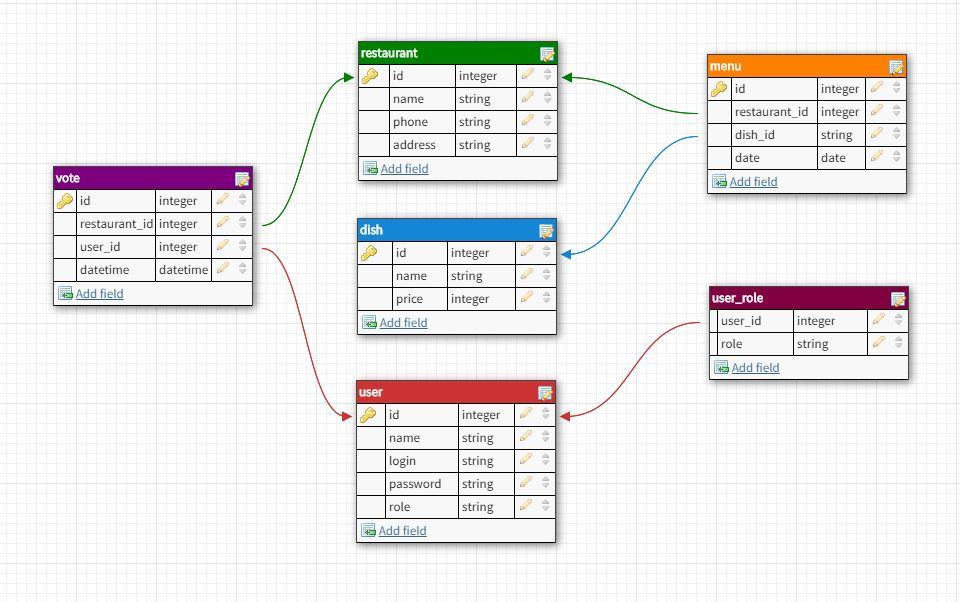
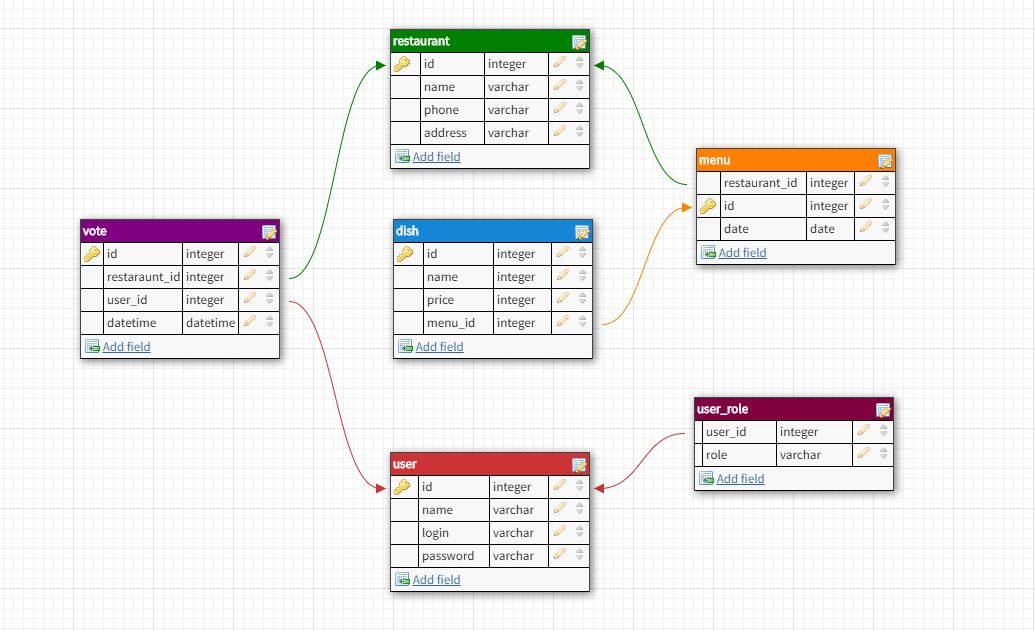
change db jpeg structure and add population.sql

diff --git a/src/main/java/ru/regorov/rrvs/configuration/AppConfig.java b/src/main/java/ru/regorov/rrvs/configuration/AppConfig.java
@@ -1,0 +1,23 @@
+package ru.regorov.rrvs.configuration;
+
+import org.springframework.context.annotation.Bean;
+import org.springframework.context.annotation.Configuration;
+import org.springframework.jdbc.datasource.embedded.EmbeddedDatabaseBuilder;
+
+import javax.sql.DataSource;
+
+import static org.springframework.jdbc.datasource.embedded.EmbeddedDatabaseType.HSQL;
+
+@Configuration
+public class AppConfig {
+
+    @Bean
+    public DataSource dataSource() {
+        return new EmbeddedDatabaseBuilder()
+                .setType(HSQL)
+                .generateUniqueName(true)
+                .addScript("db/schema.sql")
+                .addScript("db/population.sql")
+                .build();
+    }
+}
